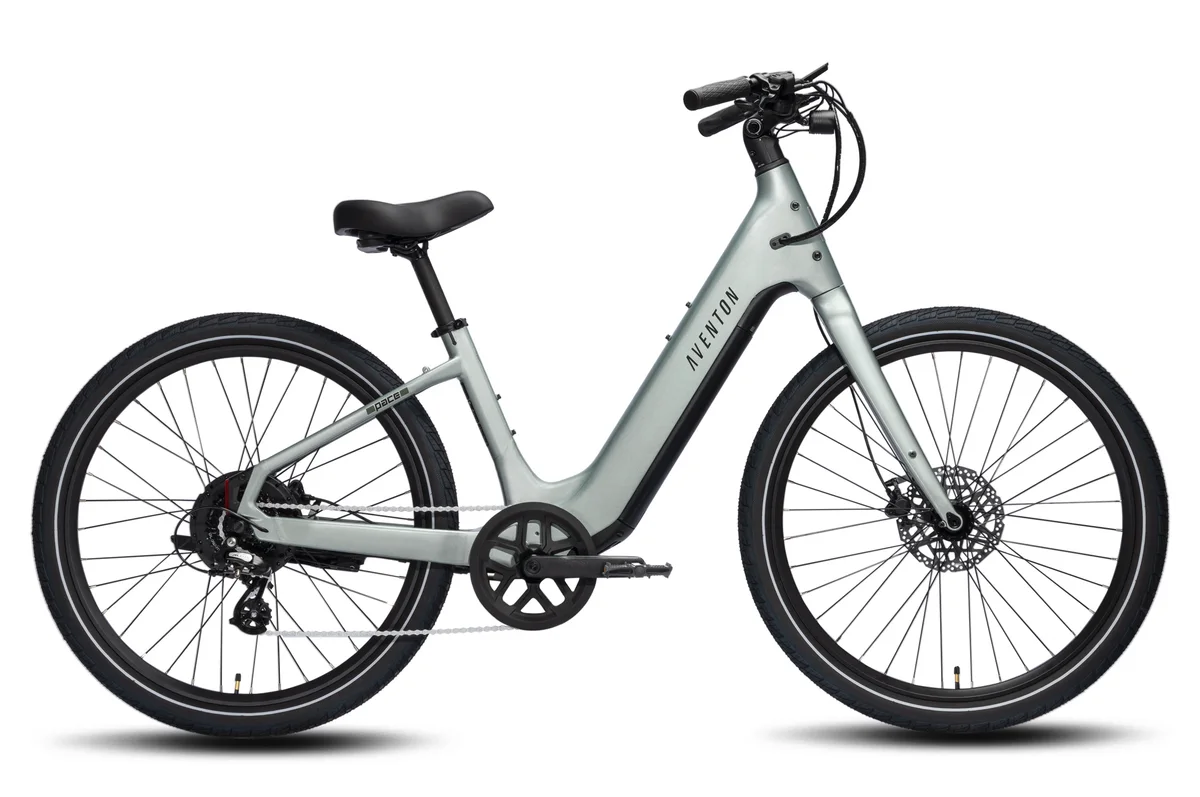
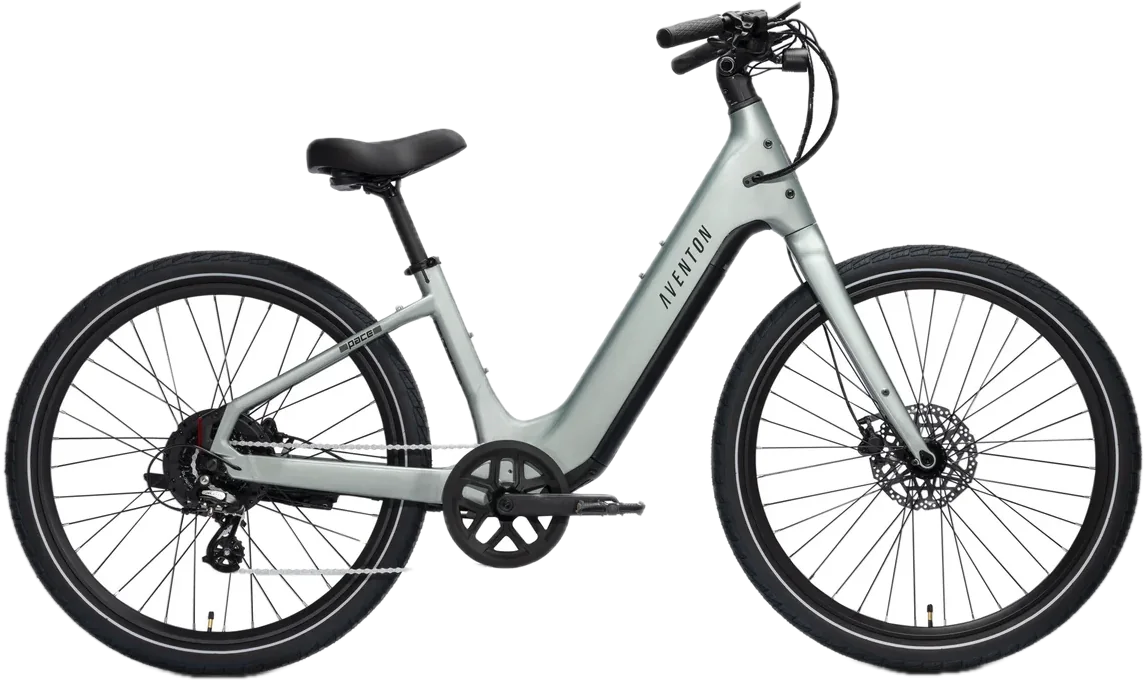
Cut out the backgrounds of the remaining product photos
Owner standard (November 24, 2026): every product photo is a transparent cutout.
Each cutout was checked by eye; photos where cutting lost the product keep their
original. JPEG photos get a transparent .webp beside them and the pages point to it.

diff --git a/src/data/catalog.js b/src/data/catalog.js
@@ -7553,7 +7553,7 @@ export const products = [
     "brand": "finbike",
     "name": "FinBike M50 Electric Bike",
     "model": "M50 Green / United Kingdom",
-    "image": "/images/products/finbike-m50-electric-bike.jpg",
+    "image": "/images/products/finbike-m50-electric-bike.webp",
     "imageAlt": "FinBike M50 Green electric bike with 27.5-inch tires on a white background",
     "imageWidth": 1600,
     "imageHeight": 1600,
@@ -7631,7 +7631,7 @@ export const products = [
     "brand": "finbike",
     "name": "FinBike W3 Commuter Electric Scooter",
     "model": "W3 [350W 34km] / Europe",
-    "image": "/images/products/finbike-w3-commuter-electric-scooter.jpg",
+    "image": "/images/products/finbike-w3-commuter-electric-scooter.webp",
     "imageAlt": "FinBike W3 commuter electric scooter in side view, with a folded view and app display on a white background",
     "imageWidth": 1000,
     "imageHeight": 1000,
@@ -7927,7 +7927,7 @@ export const products = [
    "brand": "touroll",
    "name": "Touroll U2 Pro Mountain Electric Bike",
    "model": "U2 Pro / EU",
-   "image": "/images/products/touroll-u2-pro-mountain-electric-bike.jpg",
+   "image": "/images/products/touroll-u2-pro-mountain-electric-bike.webp",
    "imageAlt": "Black and orange Touroll U2 Pro EU electric mountain bike with 29-inch tires and a front suspension fork",
    "imageWidth": 1600,
    "imageHeight": 1600,
@@ -8255,7 +8255,7 @@ export const products = [
    "brand": "the-beam",
    "name": "THE BEAM CORKY URBAN Flat-Bar Rearview Bike Mirror",
    "model": "CORKY URBAN (variant 39864269570142; SKU BEAM-BM0021-RETR)",
-   "image": "/images/products/the-beam-corky-urban-bike-mirror.jpg",
+   "image": "/images/products/the-beam-corky-urban-bike-mirror.webp",
    "imageAlt": "THE BEAM CORKY URBAN rearview mirror shown open and closed",
    "imageWidth": 2126,
    "imageHeight": 2126,
@@ -8439,7 +8439,7 @@ export const products = [
     "brand": "amyet",
     "name": "AMYET V9-G60 Electric Bike",
     "model": "V9-G60, Black / 20Ah",
-    "image": "/images/products/amyet-v9-g60-electric-bike-black.jpg",
+    "image": "/images/products/amyet-v9-g60-electric-bike-black.webp",
     "imageAlt": "Black AMYET V9-G60 electric bike with a long bench seat and 20-inch fat tires on a white background",
     "imageWidth": 1500,
     "imageHeight": 1500,
@@ -8535,7 +8535,7 @@ export const products = [
     brand: 'hidoes',
     name: 'VIPCOO H3 Electric Dirt Bike',
     model: 'Default Title (variant 51227085963561; SKU VIPCOO H3)',
-    image: '/images/products/vipcoo-h3-electric-dirt-bike.jpg',
+    image: '/images/products/vipcoo-h3-electric-dirt-bike.webp',
     imageAlt: 'Black and green VIPCOO H3 electric dirt bike shown from the side on a white background',
     imageWidth: 1500,
     imageHeight: 1500,
